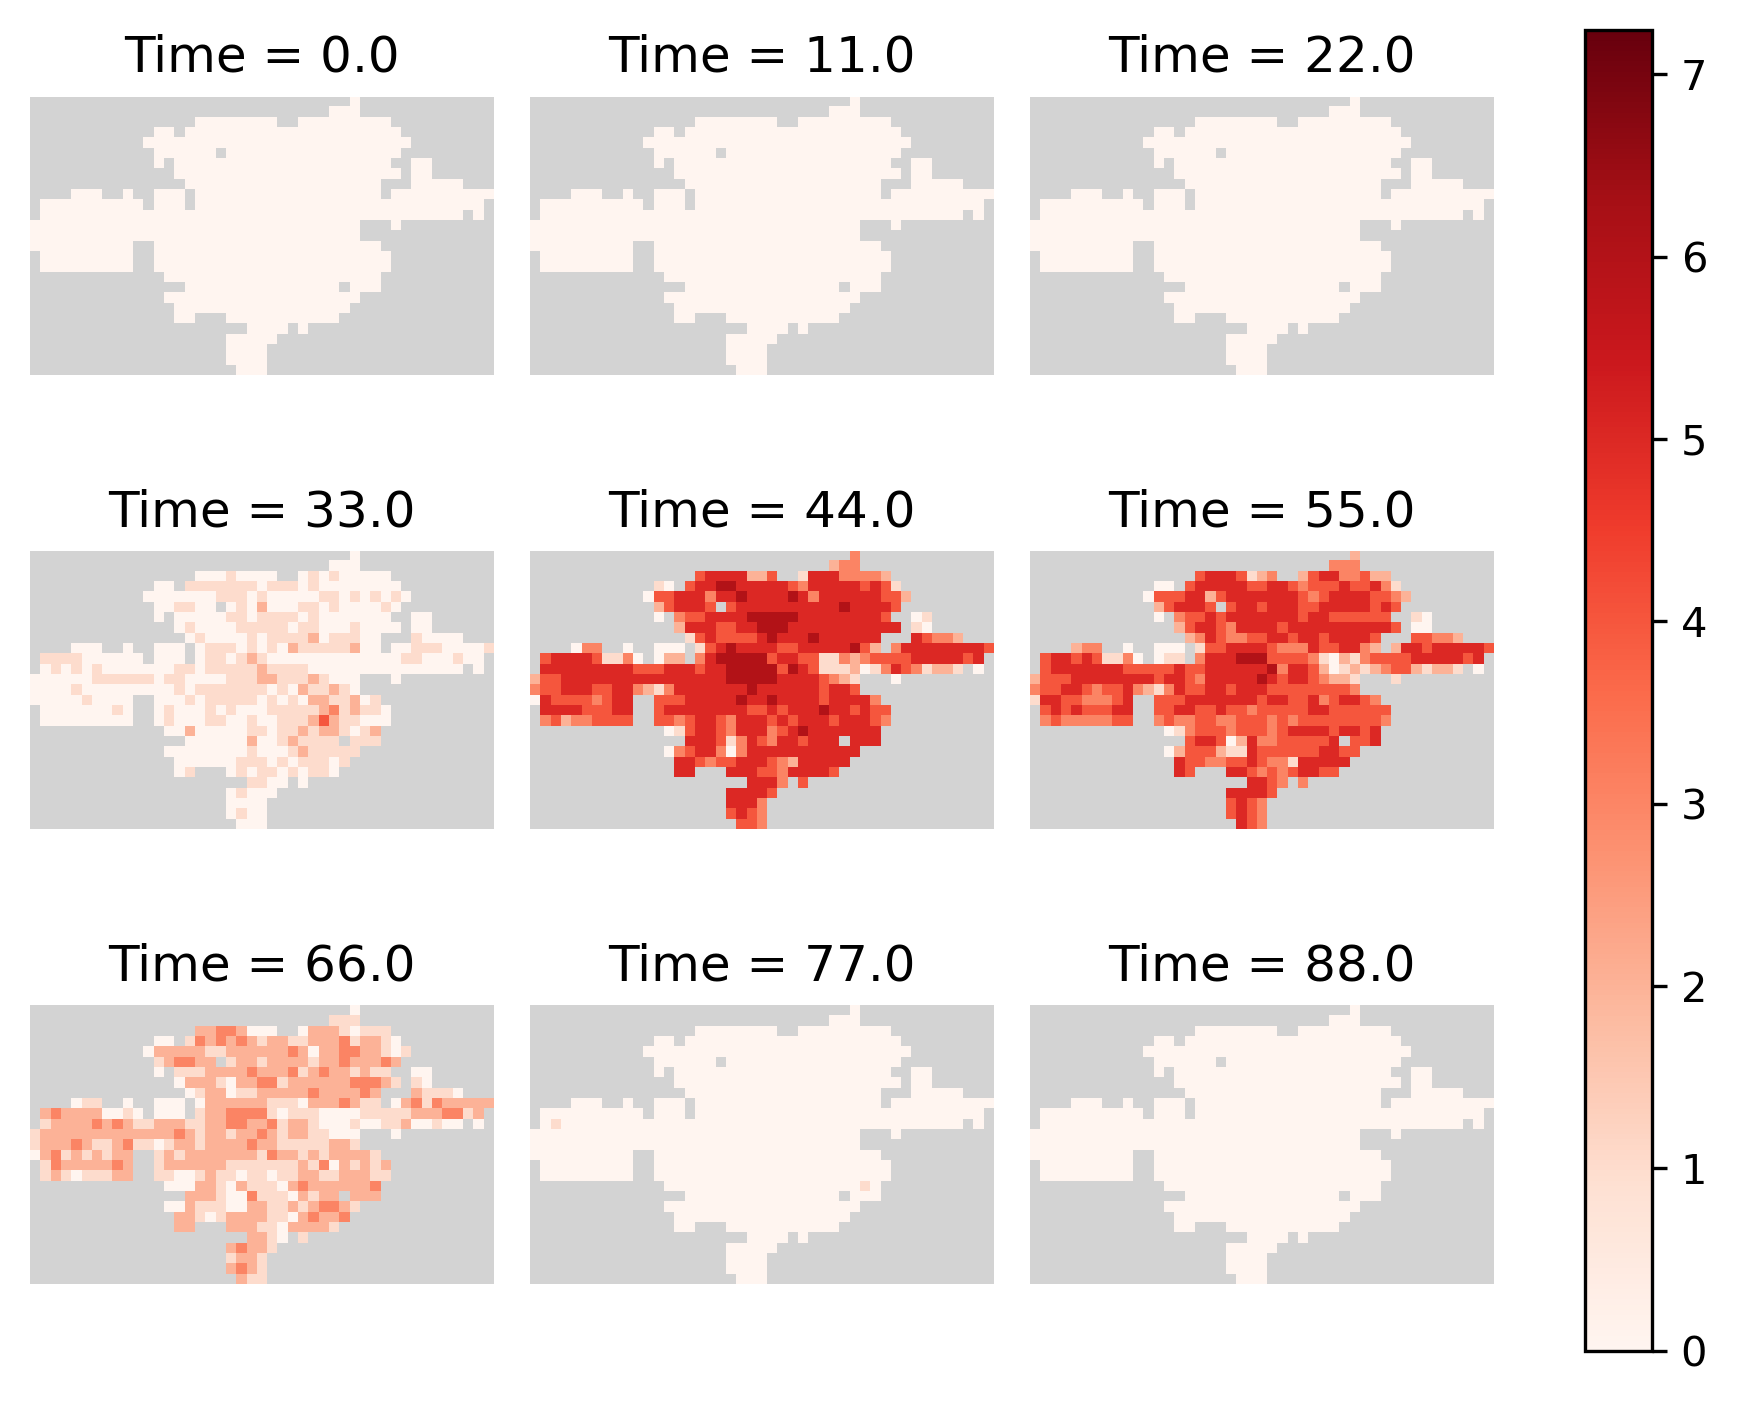
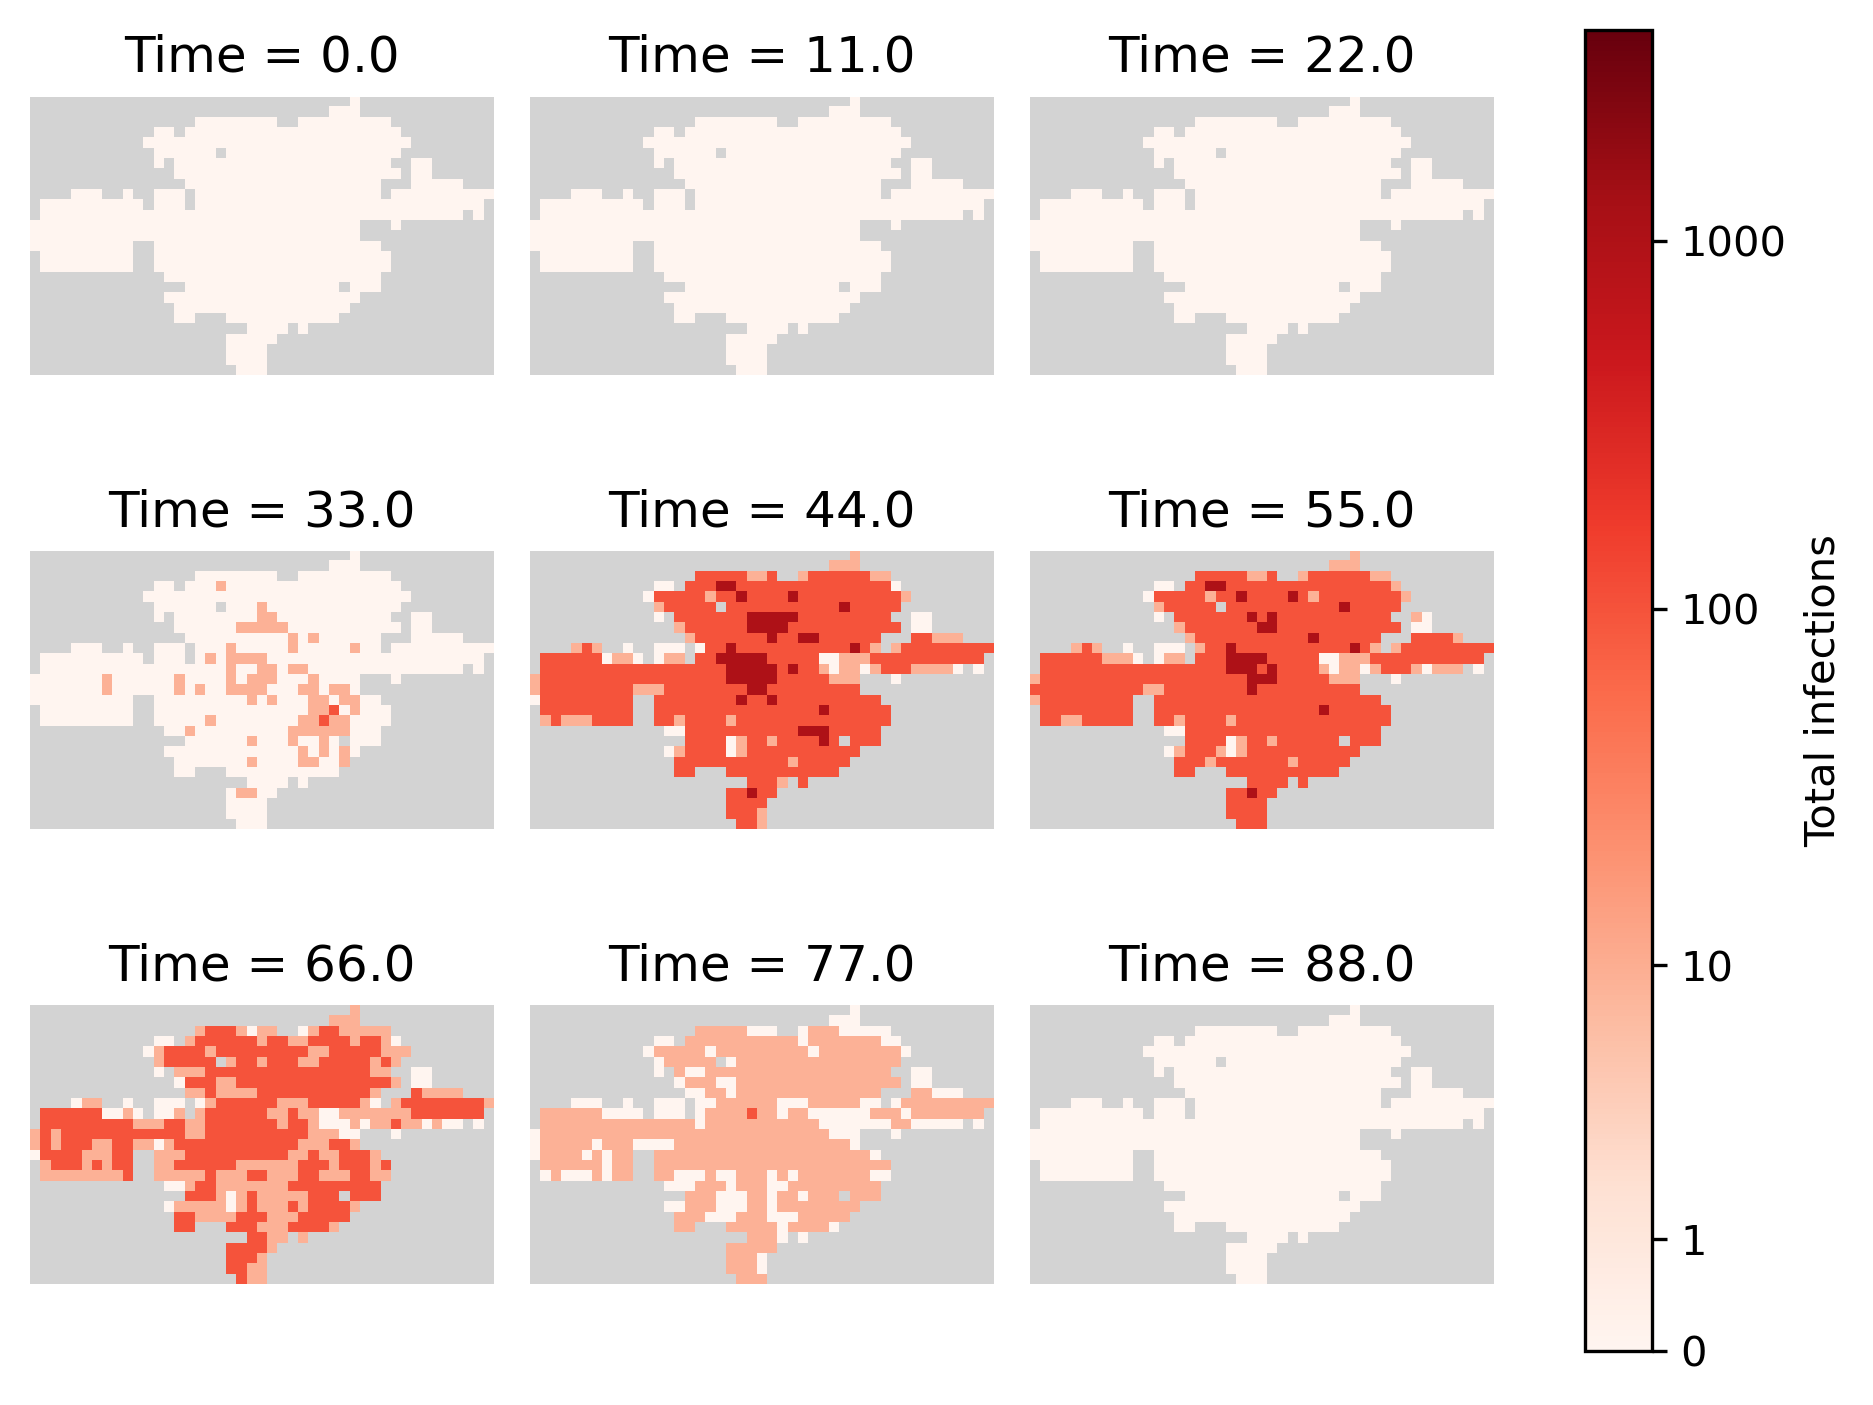
Viz updates: log10, add labels, sum all infections

diff --git a/data/sim_outputs/make_gif.py b/data/sim_outputs/make_gif.py
@@ -44,7 +44,7 @@ def generate_colour_map(df, name, min_value=0.0, cmap=cm.Reds):
     """Generates a given color map, with the max value determined by
     the max value in a given column of the provided dataframe.
     """
-    max_inf = math.log(max(df[name])+1)
+    max_inf = math.log10(max(df[name])+1)
     cmap.set_under('lightgrey')
     norm = matplotlib.colors.Normalize(vmin=min_value, vmax=max_inf, clip=False)
     return cm.ScalarMappable(norm=norm, cmap=cmap)
@@ -61,6 +61,16 @@ def add_colorbar(im, width=None, pad=None, **kwargs):
     return fig.colorbar(cax=cax, **kwargs)       # draw cbar
 
 
+def cbar_ticks(mapper):
+    max_val = mapper.norm.vmax
+    ticks = list(range(math.ceil(mapper.norm.vmax)))
+    labels = [10**tick for tick in ticks]
+    ticks = [math.log10(10**tick+1) for tick in ticks]
+    ticks = [0] + ticks
+    labels = [0] + labels
+    return ticks, labels
+
+
 def render_frame(ax, df, i, time, name, mapper, save_path='.', snaps=False):
     print(f'Generating frame {i}')
     rows = df[df['time'] == time]
@@ -70,20 +80,21 @@ def render_frame(ax, df, i, time, name, mapper, save_path='.', snaps=False):
         rows['location_x'],
         rows['location_y'],
         rows[name]
-        # df['InfectionStatus.Recovered']
     )
     for row in rows:
         coords = f'{row[1]}-{row[0]}'
         idx = coord_map[coords]
-        img_grid[idx] = math.log(row[2]+1)
+        img_grid[idx] = math.log10(row[2]+1)
     ax.set_title(f'Time = {time}')
     im = ax.imshow(img_grid, norm=mapper.norm, cmap=mapper.get_cmap())
     if i == 0 and not snaps:
-        add_colorbar(im, mappable=mapper)
+        ticks, labels = cbar_ticks(mapper)
+        cbar = add_colorbar(im, mappable=mapper, ticks=ticks)
+        cbar.ax.set_yticklabels(labels)
+        cbar.set_label("Total infections")
     if not os.path.exists(save_path) and not snaps:
         os.makedirs(save_path)
 
-    # print('Saving')
     if not snaps:
         plt.savefig(f'{save_path}/frame-{i:03d}.png', bbox_inches='tight', dpi=im.axes.figure.dpi*4)
 
@@ -97,11 +108,7 @@ def make_gif(
     file_names = []
 
     mapper = generate_colour_map(df, name=name)
-    # cbar = plt.colorbar(mapper)
-    # cbar.set_label("Number of " + str(name))
-    # fig = plt.figure()
     ax = plt.axes()
-    # add_colorbar(fig)
 
     plt.axis('off')
     for i, t in enumerate(times):
@@ -117,7 +124,6 @@ def make_gif(
         format="GIF",
         append_images=imgs,
         save_all=True,
-        # duration=20,
         duration=100,
         loop=0,
         optimise=True,
@@ -153,15 +159,31 @@ def make_snaps(
         axs[i].axis('off')
 
     plt.tight_layout()
-    cbar = plt.colorbar(mapper, ax=axs.tolist())
+    ticks, labels = cbar_ticks(mapper)
+    cbar = plt.colorbar(mapper, ax=axs.tolist(), ticks=ticks)
+    cbar.ax.set_yticklabels(labels)
+    cbar.set_label("Total infections")
     fp_name = sim_file.split('/')[-1].replace('.csv', '')
     fp_out = f"{save_path}/{fp_name}_grid.png"
     plt.savefig(fp_out, bbox_inches='tight', dpi=300)
 
 
+names = [
+    'InfectionStatus.InfectASympt',
+    'InfectionStatus.InfectMild',
+    'InfectionStatus.InfectGP',
+    'InfectionStatus.InfectHosp',
+    'InfectionStatus.InfectICU',
+]
+
+# Get all infections
+df['infections'] = df[names].sum(axis=1)
+
 # Sum infections over all age groups, etc.
 df = df.groupby(['time', 'location_x', 'location_y'], as_index=False).sum()
 
+
 times = sorted(list(set(df['time'])))
-make_gif(df, times)
-make_snaps(df, times, (3,3))
+make_gif(df, times, name='infections')
+make_snaps(df, times, (3,3), name='infections')
+
